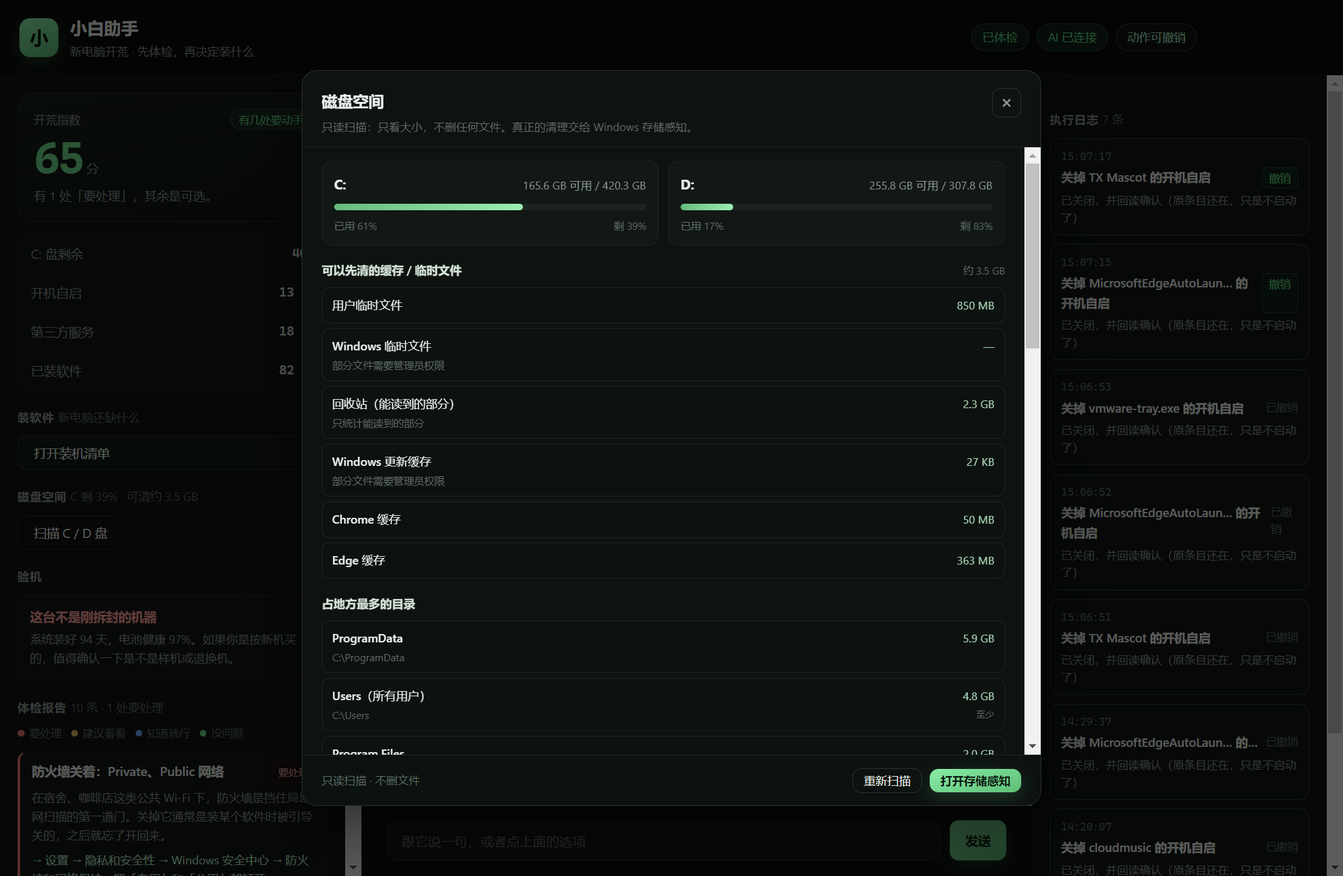
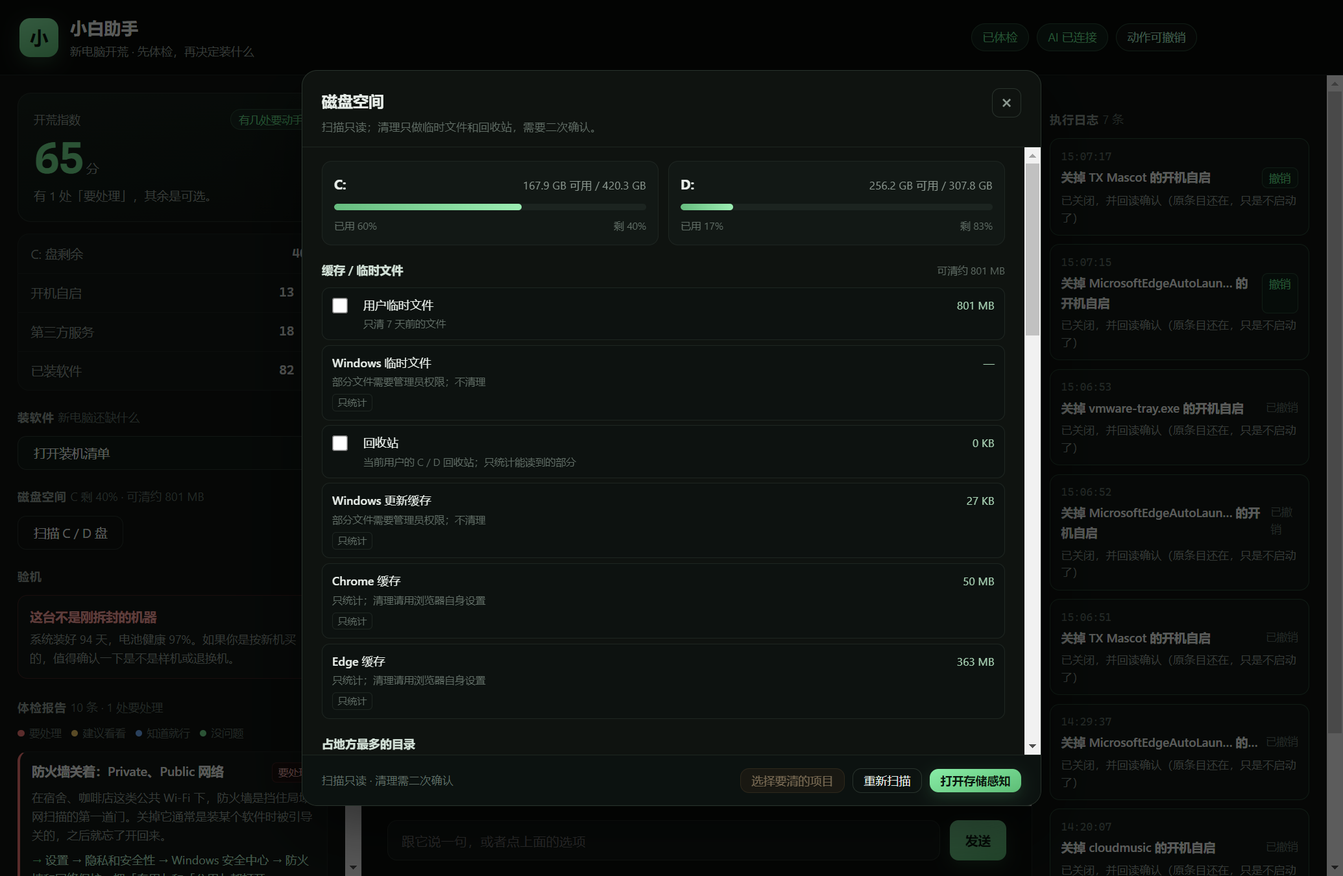
v0.2.14: safe cleanup for old temp files and current user recycle bin

diff --git a/docs/agent-demo.html b/docs/agent-demo.html
@@ -233,8 +233,17 @@ body.desktop .top .pill,body.desktop .top button{-webkit-app-region:no-drag}
 .disk-row .dr-size em{display:block;font-style:normal;font-size:9.5px;color:var(--dim2);text-align:right;margin-top:2px}
 .disk-note{margin:0;color:var(--dim2);font-size:10.5px;line-height:1.6}
 .disk-actions{display:flex;gap:8px;align-items:center}
-@media (max-width:640px){.disk-drives{grid-template-columns:1fr}}
-.demo-bar{flex:0 0 auto;display:flex;gap:10px;align-items:center;justify-content:center;padding:7px 14px;font-size:12.5px;color:#08150e;background:linear-gradient(90deg,#3ddc84,#7ff0b4)}
+.disk-row.cleanable{cursor:pointer;transition:.15s}
+.disk-row.cleanable:hover{border-color:#2f6b4a}
+.disk-row.cleanable.on{border-color:#2f6b4a;background:#0f1c15}
+.clean-box{flex:0 0 auto;width:16px;height:16px;margin:2px 2px 0 0;accent-color:var(--acc);cursor:pointer}
+.clean-tag{display:inline-block;margin-top:4px;font-style:normal;font-size:10px;color:var(--dim2);border:1px solid var(--line);border-radius:4px;padding:0 5px}
+.disk-result{margin:0;padding:0 20px;color:#9fe8c0;font-size:12px;line-height:1.6;min-height:0}
+.disk-result:empty{display:none}
+.btn.clean{background:#2a1f12;color:#ffcf9a;border-color:#5a4124}
+.btn.clean:hover{border-color:#8a6234}
+.btn.clean:disabled{opacity:.45;cursor:not-allowed}
+@media (max-width:640px){.disk-drives{grid-template-columns:1fr}}.demo-bar{flex:0 0 auto;display:flex;gap:10px;align-items:center;justify-content:center;padding:7px 14px;font-size:12.5px;color:#08150e;background:linear-gradient(90deg,#3ddc84,#7ff0b4)}
 .demo-bar b{font-weight:700}
 .demo-bar span{opacity:.78}
 </style>
@@ -272,7 +281,7 @@ body.desktop .top .pill,body.desktop .top button{-webkit-app-region:no-drag}
     </section>
 
     <section class="block">
-      <h2>磁盘空间 <span class="hint" id="diskHint">C / D 盘只读扫描</span></h2>
+      <h2>磁盘空间 <span class="hint" id="diskHint">C / D 盘扫描</span></h2>
       <button id="btnDisk" class="btn ghost wide">扫描 C / D 盘</button>
     </section>
 
@@ -338,14 +347,16 @@ body.desktop .top .pill,body.desktop .top button{-webkit-app-region:no-drag}
     <div class="modal-head">
       <div>
         <h2 id="diskTitle">磁盘空间</h2>
-        <p class="muted small">只读扫描：只看大小，不删任何文件。真正的清理交给 Windows 存储感知。</p>
+        <p class="muted small">扫描只读；清理只做临时文件和回收站，需要二次确认。</p>
       </div>
       <button class="modal-x" id="diskClose" aria-label="关闭">×</button>
     </div>
     <div class="disk-body" id="diskBody"><p class="muted">还没扫。</p></div>
+    <p class="disk-result" id="diskResult" role="status"></p>
     <div class="modal-foot">
-      <span class="muted small">只读扫描 · 不删文件</span>
+      <span class="muted small">扫描只读 · 清理需二次确认</span>
       <span class="disk-actions">
+        <button id="diskClean" class="btn clean sm" hidden>选择要清的项目</button>
         <button id="diskRefresh" class="btn ghost sm">重新扫描</button>
         <button id="diskSettings" class="btn primary sm">打开存储感知</button>
       </span>
@@ -449,7 +460,7 @@ window.fetch = async (url, opt) => {
       { path: 'C:\\Users\\you\\Downloads\\installer.zip', name: 'installer.zip', bytes: 233 * 1024 ** 2 },
       { path: 'C:\\Users\\you\\Downloads\\video.mp4', name: 'video.mp4', bytes: 180 * 1024 ** 2 },
     ],
-    notes: ['目录大小按扫描上限截断，标「至少」的是下限。', '只读扫描，不会删除任何文件。'],
+    notes: ['目录大小按扫描上限截断，标「至少」的是下限。', '静态演示只展示扫描；安全清理只在桌面版可用。'],
   });
   if (p === '/api/journal') return j({ entries: SIM.journal.slice() });  if (p === '/api/open') return j({ ok: true, uri: body.uri });
   if (p === '/api/settings') return j({ ok: true, hasKey: false, model: 'deepseek-flash' });
@@ -471,7 +482,7 @@ if (window.kgDesktop) document.body.classList.add('desktop');
 const $ = (s) => document.querySelector(s);
 const STEPS = ['读系统与硬件', '看磁盘空间', '数一遍装了多少软件', '检查开机自启', '看后台服务', '查防火墙和防护状态', '验机：电池、硬盘、安装天数', '整理成报告'];
 
-const S = { report: null, analysis: null, journal: [], cards: [], picked: new Set(), busy: false, apps: [], appPicked: new Set(), appsBusy: false, disk: null, diskBusy: false };
+const S = { report: null, analysis: null, journal: [], cards: [], picked: new Set(), busy: false, apps: [], appPicked: new Set(), appsBusy: false, disk: null, diskBusy: false, cleanPicked: new Set() };
 
 const el = (tag, cls, text) => { const n = document.createElement(tag); if (cls) n.className = cls; if (text != null) n.textContent = text; return n; };
 
@@ -890,6 +901,7 @@ async function scanDiskUI(force = false) {
   try {
     const d = await api('/api/disk' + (force ? '?refresh=1' : ''));
     S.disk = d;
+    S.cleanPicked = new Set();
     renderDisk(d);
   } catch (e) {
     box.innerHTML = '';
@@ -939,7 +951,7 @@ function renderDisk(d) {
   const clean = (d.clean || []).filter(x => x.exists && (x.bytes > 0 || x.note));
   const sec1 = el('div', 'disk-sec');
   const h1 = el('h3');
-  h1.append(document.createTextNode('可以先清的缓存 / 临时文件'), el('span', null, d.cleanupBytes ? '约 ' + fmtSize(d.cleanupBytes) : ''));
+  h1.append(document.createTextNode('缓存 / 临时文件'), el('span', null, d.cleanupBytes ? '可清约 ' + fmtSize(d.cleanupBytes) : ''));
   sec1.append(h1);
   if (!clean.length) sec1.append(el('p', 'disk-note', '没找到可清的缓存。'));
   else {
@@ -952,6 +964,24 @@ function renderDisk(d) {
       const size = el('span', 'dr-size');
       size.append(document.createTextNode(x.bytes > 0 ? fmtSize(x.bytes) : '—'));
       if (x.truncated) size.append(el('em', null, '至少'));
+      if (x.cleanable) {
+        row.classList.add('cleanable');
+        const box = document.createElement('input');
+        box.type = 'checkbox'; box.className = 'clean-box'; box.checked = S.cleanPicked.has(x.key);
+        const setPicked = (on) => {
+          if (on) S.cleanPicked.add(x.key); else S.cleanPicked.delete(x.key);
+          box.checked = on;
+          row.classList.toggle('on', on);
+          syncCleanBtn();
+        };
+        box.onchange = () => setPicked(box.checked);
+        box.onclick = (e) => e.stopPropagation();
+        row.onclick = (e) => { if (e.target !== box) setPicked(!S.cleanPicked.has(x.key)); };
+        row.classList.toggle('on', box.checked);
+        row.prepend(box);
+      } else {
+        main.append(el('em', 'clean-tag', '只统计'));
+      }
       row.append(main, size);
       list.append(row);
     }
@@ -1003,6 +1033,36 @@ function renderDisk(d) {
 
   const c = (d.drives || []).find(x => x.letter === 'C' && x.exists && !x.error);
   if (c) $('#diskHint').textContent = 'C 剩 ' + Math.round(c.free / c.total * 100) + '%' + (d.cleanupBytes ? ' · 可清约 ' + fmtSize(d.cleanupBytes) : '');
+  syncCleanBtn();
+}
+
+function syncCleanBtn() {
+  const b = $('#diskClean');
+  if (!b) return;
+  const n = S.cleanPicked.size;
+  b.hidden = !S.cleanPicked.size && !document.querySelector('#diskBody .disk-row.cleanable');
+  b.disabled = n === 0;
+  b.textContent = n ? '清理选中的 ' + n + ' 项' : '选择要清的项目';
+}
+
+async function runClean() {
+  const keys = [...S.cleanPicked];
+  if (!keys.length) return;
+  const names = keys.map((k) => k === 'temp' ? '用户临时文件（7 天前）' : '回收站（当前用户）').join('\n· ');
+  if (!confirm('确认清理这 ' + keys.length + ' 项？\n\n· ' + names + '\n\n删除不可撤销，不能像其他动作一样撤回。')) return;
+  const b = $('#diskClean');
+  b.disabled = true; b.textContent = '正在清理…';
+  $('#diskResult').textContent = '';
+  try {
+    const r = await api('/api/clean', { keys });
+    const parts = r.items.map((x) => x.detail + (x.freed ? '，释放 ' + fmtSize(x.freed) : ''));
+    $('#diskResult').textContent = (r.ok ? '清理完成：' : '清理没全成：') + parts.join('；');
+    S.cleanPicked = new Set();
+    await scanDiskUI(true);
+  } catch (e) {
+    $('#diskResult').textContent = '没清理：' + e.message;
+    b.disabled = false; syncCleanBtn();
+  }
 }
 
 function closeDisk() { $('#diskModal').hidden = true; }
@@ -1120,6 +1180,7 @@ $('#diskSettings').onclick = async () => {
   catch (e) { b.textContent = '打开失败'; }
   setTimeout(() => { b.disabled = false; b.textContent = '打开存储感知'; }, 2500);
 };
+$('#diskClean').onclick = runClean;
 $('#diskModal').addEventListener('click', (e) => { if (e.target.id === 'diskModal') closeDisk(); });
 document.addEventListener('keydown', (e) => {
   if (e.key !== 'Escape') return;

diff --git a/app/ui/app.js b/app/ui/app.js
@@ -2,7 +2,7 @@ if (window.kgDesktop) document.body.classList.add('desktop');
 const $ = (s) => document.querySelector(s);
 const STEPS = ['读系统与硬件', '看磁盘空间', '数一遍装了多少软件', '检查开机自启', '看后台服务', '查防火墙和防护状态', '验机：电池、硬盘、安装天数', '整理成报告'];
 
-const S = { report: null, analysis: null, journal: [], cards: [], picked: new Set(), busy: false, apps: [], appPicked: new Set(), appsBusy: false, disk: null, diskBusy: false };
+const S = { report: null, analysis: null, journal: [], cards: [], picked: new Set(), busy: false, apps: [], appPicked: new Set(), appsBusy: false, disk: null, diskBusy: false, cleanPicked: new Set() };
 
 const el = (tag, cls, text) => { const n = document.createElement(tag); if (cls) n.className = cls; if (text != null) n.textContent = text; return n; };
 
@@ -421,6 +421,7 @@ async function scanDiskUI(force = false) {
   try {
     const d = await api('/api/disk' + (force ? '?refresh=1' : ''));
     S.disk = d;
+    S.cleanPicked = new Set();
     renderDisk(d);
   } catch (e) {
     box.innerHTML = '';
@@ -470,7 +471,7 @@ function renderDisk(d) {
   const clean = (d.clean || []).filter(x => x.exists && (x.bytes > 0 || x.note));
   const sec1 = el('div', 'disk-sec');
   const h1 = el('h3');
-  h1.append(document.createTextNode('可以先清的缓存 / 临时文件'), el('span', null, d.cleanupBytes ? '约 ' + fmtSize(d.cleanupBytes) : ''));
+  h1.append(document.createTextNode('缓存 / 临时文件'), el('span', null, d.cleanupBytes ? '可清约 ' + fmtSize(d.cleanupBytes) : ''));
   sec1.append(h1);
   if (!clean.length) sec1.append(el('p', 'disk-note', '没找到可清的缓存。'));
   else {
@@ -483,6 +484,24 @@ function renderDisk(d) {
       const size = el('span', 'dr-size');
       size.append(document.createTextNode(x.bytes > 0 ? fmtSize(x.bytes) : '—'));
       if (x.truncated) size.append(el('em', null, '至少'));
+      if (x.cleanable) {
+        row.classList.add('cleanable');
+        const box = document.createElement('input');
+        box.type = 'checkbox'; box.className = 'clean-box'; box.checked = S.cleanPicked.has(x.key);
+        const setPicked = (on) => {
+          if (on) S.cleanPicked.add(x.key); else S.cleanPicked.delete(x.key);
+          box.checked = on;
+          row.classList.toggle('on', on);
+          syncCleanBtn();
+        };
+        box.onchange = () => setPicked(box.checked);
+        box.onclick = (e) => e.stopPropagation();
+        row.onclick = (e) => { if (e.target !== box) setPicked(!S.cleanPicked.has(x.key)); };
+        row.classList.toggle('on', box.checked);
+        row.prepend(box);
+      } else {
+        main.append(el('em', 'clean-tag', '只统计'));
+      }
       row.append(main, size);
       list.append(row);
     }
@@ -534,6 +553,36 @@ function renderDisk(d) {
 
   const c = (d.drives || []).find(x => x.letter === 'C' && x.exists && !x.error);
   if (c) $('#diskHint').textContent = 'C 剩 ' + Math.round(c.free / c.total * 100) + '%' + (d.cleanupBytes ? ' · 可清约 ' + fmtSize(d.cleanupBytes) : '');
+  syncCleanBtn();
+}
+
+function syncCleanBtn() {
+  const b = $('#diskClean');
+  if (!b) return;
+  const n = S.cleanPicked.size;
+  b.hidden = !S.cleanPicked.size && !document.querySelector('#diskBody .disk-row.cleanable');
+  b.disabled = n === 0;
+  b.textContent = n ? '清理选中的 ' + n + ' 项' : '选择要清的项目';
+}
+
+async function runClean() {
+  const keys = [...S.cleanPicked];
+  if (!keys.length) return;
+  const names = keys.map((k) => k === 'temp' ? '用户临时文件（7 天前）' : '回收站（当前用户）').join('\n· ');
+  if (!confirm('确认清理这 ' + keys.length + ' 项？\n\n· ' + names + '\n\n删除不可撤销，不能像其他动作一样撤回。')) return;
+  const b = $('#diskClean');
+  b.disabled = true; b.textContent = '正在清理…';
+  $('#diskResult').textContent = '';
+  try {
+    const r = await api('/api/clean', { keys });
+    const parts = r.items.map((x) => x.detail + (x.freed ? '，释放 ' + fmtSize(x.freed) : ''));
+    $('#diskResult').textContent = (r.ok ? '清理完成：' : '清理没全成：') + parts.join('；');
+    S.cleanPicked = new Set();
+    await scanDiskUI(true);
+  } catch (e) {
+    $('#diskResult').textContent = '没清理：' + e.message;
+    b.disabled = false; syncCleanBtn();
+  }
 }
 
 function closeDisk() { $('#diskModal').hidden = true; }
@@ -651,6 +700,7 @@ $('#diskSettings').onclick = async () => {
   catch (e) { b.textContent = '打开失败'; }
   setTimeout(() => { b.disabled = false; b.textContent = '打开存储感知'; }, 2500);
 };
+$('#diskClean').onclick = runClean;
 $('#diskModal').addEventListener('click', (e) => { if (e.target.id === 'diskModal') closeDisk(); });
 document.addEventListener('keydown', (e) => {
   if (e.key !== 'Escape') return;

diff --git a/app/ui/index.html b/app/ui/index.html
@@ -39,7 +39,7 @@
     </section>
 
     <section class="block">
-      <h2>磁盘空间 <span class="hint" id="diskHint">C / D 盘只读扫描</span></h2>
+      <h2>磁盘空间 <span class="hint" id="diskHint">C / D 盘扫描</span></h2>
       <button id="btnDisk" class="btn ghost wide">扫描 C / D 盘</button>
     </section>
 
@@ -105,14 +105,16 @@
     <div class="modal-head">
       <div>
         <h2 id="diskTitle">磁盘空间</h2>
-        <p class="muted small">只读扫描：只看大小，不删任何文件。真正的清理交给 Windows 存储感知。</p>
+        <p class="muted small">扫描只读；清理只做临时文件和回收站，需要二次确认。</p>
       </div>
       <button class="modal-x" id="diskClose" aria-label="关闭">×</button>
     </div>
     <div class="disk-body" id="diskBody"><p class="muted">还没扫。</p></div>
+    <p class="disk-result" id="diskResult" role="status"></p>
     <div class="modal-foot">
-      <span class="muted small">只读扫描 · 不删文件</span>
+      <span class="muted small">扫描只读 · 清理需二次确认</span>
       <span class="disk-actions">
+        <button id="diskClean" class="btn clean sm" hidden>选择要清的项目</button>
         <button id="diskRefresh" class="btn ghost sm">重新扫描</button>
         <button id="diskSettings" class="btn primary sm">打开存储感知</button>
       </span>

diff --git a/app/ui/app.css b/app/ui/app.css
@@ -226,4 +226,14 @@ body.desktop .top .pill,body.desktop .top button{-webkit-app-region:no-drag}
 .disk-row .dr-size em{display:block;font-style:normal;font-size:9.5px;color:var(--dim2);text-align:right;margin-top:2px}
 .disk-note{margin:0;color:var(--dim2);font-size:10.5px;line-height:1.6}
 .disk-actions{display:flex;gap:8px;align-items:center}
+.disk-row.cleanable{cursor:pointer;transition:.15s}
+.disk-row.cleanable:hover{border-color:#2f6b4a}
+.disk-row.cleanable.on{border-color:#2f6b4a;background:#0f1c15}
+.clean-box{flex:0 0 auto;width:16px;height:16px;margin:2px 2px 0 0;accent-color:var(--acc);cursor:pointer}
+.clean-tag{display:inline-block;margin-top:4px;font-style:normal;font-size:10px;color:var(--dim2);border:1px solid var(--line);border-radius:4px;padding:0 5px}
+.disk-result{margin:0;padding:0 20px;color:#9fe8c0;font-size:12px;line-height:1.6;min-height:0}
+.disk-result:empty{display:none}
+.btn.clean{background:#2a1f12;color:#ffcf9a;border-color:#5a4124}
+.btn.clean:hover{border-color:#8a6234}
+.btn.clean:disabled{opacity:.45;cursor:not-allowed}
 @media (max-width:640px){.disk-drives{grid-template-columns:1fr}}

diff --git a/app/ui/demo-shim.js b/app/ui/demo-shim.js
@@ -93,7 +93,7 @@ window.fetch = async (url, opt) => {
       { path: 'C:\\Users\\you\\Downloads\\installer.zip', name: 'installer.zip', bytes: 233 * 1024 ** 2 },
       { path: 'C:\\Users\\you\\Downloads\\video.mp4', name: 'video.mp4', bytes: 180 * 1024 ** 2 },
     ],
-    notes: ['目录大小按扫描上限截断，标「至少」的是下限。', '只读扫描，不会删除任何文件。'],
+    notes: ['目录大小按扫描上限截断，标「至少」的是下限。', '静态演示只展示扫描；安全清理只在桌面版可用。'],
   });
   if (p === '/api/journal') return j({ entries: SIM.journal.slice() });  if (p === '/api/open') return j({ ok: true, uri: body.uri });
   if (p === '/api/settings') return j({ ok: true, hasKey: false, model: 'deepseek-flash' });

diff --git a/README.md b/README.md
@@ -2,7 +2,7 @@
 
 > 新电脑开荒：先体检，再决定装什么。
 
-**v0.2.13 · Agent 版**：一个能真的动手、也能真的撤回的桌面程序。双击 → 20 秒体检 → 直接说用途（打游戏、剪视频、写代码、学习）→ AI 先给一套方案和动作卡片 → 你点头，点执行逐条生效 → 不满意，点撤销，三秒回到原样。新电脑缺微信、网易云这些常用软件，左边「装软件」里勾一下就能装；C / D 盘也能只读扫一遍，看空间被谁占了，再带你去 Windows 存储感知清理。
+**v0.2.14 · Agent 版**：一个能真的动手、也能真的撤回的桌面程序。双击 → 20 秒体检 → 直接说用途（打游戏、剪视频、写代码、学习）→ AI 先给一套方案和动作卡片 → 你点头，点执行逐条生效 → 不满意，点撤销，三秒回到原样。新电脑缺微信、网易云这些常用软件，左边「装软件」里勾一下就能装；C / D 盘也能扫一遍，看空间被谁占了；临时文件和回收站可以在应用里勾选清理（二次确认），其余缓存带你到 Windows 存储感知。
 
 对话是主路径，不是表单：说「打游戏」就直接给游戏方案（先关装饰自启、开防火墙、重复软件带路），不再反问「主要玩什么」；说「就按这个来」方案不变，勾选保留；说「不用了」卡片撤掉；问「TX Mascot 是干什么的」「迈克菲能删吗」「怎么撤销」直接答，答不上来就说不知道。点卡片任意位置都能勾选，不用非得戳那个小方块。
 
@@ -20,7 +20,7 @@
 
 ## v0.2 桌面版怎么跑
 
-1. 从 [Releases](https://github.com/NI-haoyang/kaiguang/releases) 下载 `xiaobai-v0.2.13-win64.zip`（约 113 MB，含 Electron 运行时，不用装 Node、不用联网）。
+1. 从 [Releases](https://github.com/NI-haoyang/kaiguang/releases) 下载 `xiaobai-v0.2.14-win64.zip`（约 113 MB，含 Electron 运行时，不用装 Node、不用联网）。
 2. **把整个 zip 解压到一个空文件夹**，再双击文件夹里的 `小白助手.exe`。
    - 不要只把 exe 复制出来，也不要在压缩软件里直接双击 exe —— Windows 只会把 exe 单独解到临时目录，DLL 和 resources 没跟过来，就会报「找不到 ffmpeg.dll」。
    - 不确定的话，先双击同目录的 `启动前检查.bat`，它会告诉你缺了什么。
@@ -50,15 +50,18 @@
 - **失败即停**：一次装多个时，任何一个失败，后面的不再装，日志里写清楚失败原因。
 - **不代卸**：OEM 预装软件仍然只带到设置页，因为卸了装不回；「装」有明确包 id、能卸掉，所以先做这一半。
 
-### 磁盘空间：只读扫描，不删文件
+### 磁盘空间：扫描 + 两项安全清理
 
 左边「磁盘空间 → 扫描 C / D 盘」，几秒钟给出：C / D 的容量和剩余、可以先清的缓存/临时文件（用户临时、Windows 临时、回收站、更新缓存、Chrome / Edge 缓存）、占地方最多的目录（C 的 Users / ProgramData / Program Files，D 的顶层目录），以及用户目录里的大文件。标「至少」的是扫描上限截断后的下限，不是精确值。
 
-![磁盘空间只读扫描](docs/img/agent-disk.png)
+![磁盘空间：勾选要清的项目](docs/img/agent-disk.png)
 
-- **只读**：只读文件名和大小，不读内容、不删任何文件；没有删除按钮。
-- **真正的清理交给 Windows**：底部「打开存储感知」直达 `ms-settings:storagesense`，清什么、清多少由系统决定，我们只负责把账算清楚。
-- **为什么不做「一键清理」**：删文件不可撤销，会破坏「每改一处都能退」这个承诺。这个版本宁可少做一步，也不拿用户的数据赌。
+![安全清理：二次确认后逐项执行](docs/img/agent-clean.png)
+
+- **扫描只读**：只读文件名和大小，不读内容；扫描本身不删任何文件。
+- **安全清理只做两项**：用户临时目录里 7 天前的文件、当前用户的回收站。勾选后要二次确认，并明确写「不可撤销」；其他缓存（Windows 临时、更新缓存、Chrome / Edge）只统计，不带清。
+- **真正的清理仍旧交给 Windows**：底部「打开存储感知」直达 `ms-settings:storagesense`。
+- **为什么不放开「一键清理」**：只对临时文件和回收站开口，是因为它们丢了通常不心疼；用户文档、下载、桌面、注册表、驱动、WinSxS 一律不碰。
 
 **它是怎么做到「敢按下去」的**
 
@@ -68,7 +71,7 @@
 | 执行前先留退路 | 改之前把原值写进 journal（注册表二进制、软件包 ID、服务启动类型） | 撤销 = 把原值写回去，不需要重装 |
 | 失败即停 + 全程留痕 | 任何一步失败，后面不再执行；日志逐条可导出 | 评委可以查它做了什么、为什么、怎么退 |
 
-主动不做的：不卸驱动、不改 BIOS、不碰分区、不删系统组件、不删文件；装软件只从内置清单里装，不接任意下载链接；卸 OEM 预装、改服务启动类型、开防火墙这类撤不干净或需要管理员的事不代劳，只把你带到设置页，最后一下你自己点。
+主动不做的：不卸驱动、不改 BIOS、不碰分区、不删系统组件、不删用户文件（清理只做临时文件和回收站）；装软件只从内置清单里装，不接任意下载链接；卸 OEM 预装、改服务启动类型、开防火墙这类撤不干净或需要管理员的事不代劳，只把你带到设置页，最后一下你自己点。
 
 ## 目录（v0.1 只读版）
 

diff --git a/docs/报名提交.md b/docs/报名提交.md
@@ -8,12 +8,12 @@
 
 **在线 Demo（只读版）**：https://ni-haoyang.github.io/kaiguang/
 
-**桌面版（能真的动手，能真的撤销）**：[Releases v0.2.13](https://github.com/NI-haoyang/kaiguang/releases) 下载 zip（约 113 MB，含运行时，不用装 Node、不用联网），解压后双击 `小白助手.exe`。
+**桌面版（能真的动手，能真的撤销）**：[Releases v0.2.14](https://github.com/NI-haoyang/kaiguang/releases) 下载 zip（约 113 MB，含运行时，不用装 Node、不用联网），解压后双击 `小白助手.exe`。
 
 **代码仓库**：https://github.com/NI-haoyang/kaiguang
 
 **三十秒怎么看出它有用**：
-双击 `小白助手.exe` → 自动体检 20 秒 → 开荒指数 70 分，左边列出「1 处要处理、其余可选」→ 中间直接打「打游戏」，AI 先给一套游戏方案，再列出 4–5 张动作卡（防火墙、关装饰自启、重复软件带路），每张写明为什么、影响什么、能不能退 → 说「就按这个来」，方案不变、勾选保留 → 点执行，0.8 秒逐条变绿；重复软件只把你带到设置页，不代劳 → 点「全部撤销」，3 秒回到原样。新电脑缺微信/网易云，点左边「装软件」，勾一下装好，日志里同样能撤销。想看 C / D 盘被谁占了，点左边「磁盘空间」，几秒钟出缓存、临时文件、回收站和目录占用；只读不删，清理由「打开存储感知」交给 Windows。
+双击 `小白助手.exe` → 自动体检 20 秒 → 开荒指数 70 分，左边列出「1 处要处理、其余可选」→ 中间直接打「打游戏」，AI 先给一套游戏方案，再列出 4–5 张动作卡（防火墙、关装饰自启、重复软件带路），每张写明为什么、影响什么、能不能退 → 说「就按这个来」，方案不变、勾选保留 → 点执行，0.8 秒逐条变绿；重复软件只把你带到设置页，不代劳 → 点「全部撤销」，3 秒回到原样。新电脑缺微信/网易云，点左边「装软件」，勾一下装好，日志里同样能撤销。想看 C / D 盘被谁占了，点左边「磁盘空间」，几秒钟出缓存、临时文件、回收站和目录占用；扫完可以勾选清临时文件和回收站（二次确认，删了退不回）；其他缓存交给「打开存储感知」。
 
 静态交互演示只演示卡片、执行和撤销的视觉，对话流程以桌面版为准。
 一句话总结：**同类工具只给清单，我们负责执行，并且保证能退。**
@@ -26,7 +26,7 @@
 - 每天有调用上限（默认 400 次），断网 / key 失效 / 额度用完都会静默回落到本地规则，现场不怕没网。
 
 **作品边界（我们主动没做的）**：
-- 不卸驱动、不改 BIOS、不碰分区、不删系统组件、**不删文件**。
+- 不卸驱动、不改 BIOS、不碰分区、不删系统组件、**不删用户文件**；清理只做 7 天前的临时文件和回收站，二次确认、不可撤销。
 - **装软件只装内置清单**：微信、QQ、腾讯会议、WPS、网易云、Chrome、7-Zip、Everything、VS Code、Git 十个，包 id 写死在代码里，不接受任意下载链接；装完可撤销（卸载刚装的），winget 退不干净的会再用安装包自带卸载器补一次。
 - **不代卸 OEM 预装软件**：这类软件没有静默卸载、也装不回，自动卸了「撤销」就是空话；我们只带路到设置页，最后一下你自己点。
 - 需要管理员权限的事（改服务启动类型、开防火墙）不代劳，只把你带到设置页，最后一下你自己点；整机级的开机自启会弹一次 UAC，你同意才动。
@@ -34,7 +34,7 @@
 - 本地服务只监听 `127.0.0.1`，而且每次启动生成一次性口令、所有接口都要带；别的网页拿不到口令，就没法替你按「执行」。
 - 不承诺「一键变快」，只承诺「改了什么你能看见，改错了你能退回」。
 
-**技术栈**：Electron 33 套壳（约 268 MB 目录，自带运行时）+ 原生 Node HTTP 服务（127.0.0.1 随机端口）+ PowerShell 只读采集 + Node 只读扫盘 + 注册表 StartupApproved 关自启 / 撤销。没有云服务，数据不出本机。
+**技术栈**：Electron 33 套壳（约 268 MB 目录，自带运行时）+ 原生 Node HTTP 服务（127.0.0.1 随机端口）+ PowerShell 只读采集 + Node 只读扫盘 / 安全清理 + 注册表 StartupApproved 关自启 / 撤销。没有云服务，数据不出本机。
 
 ---
 
